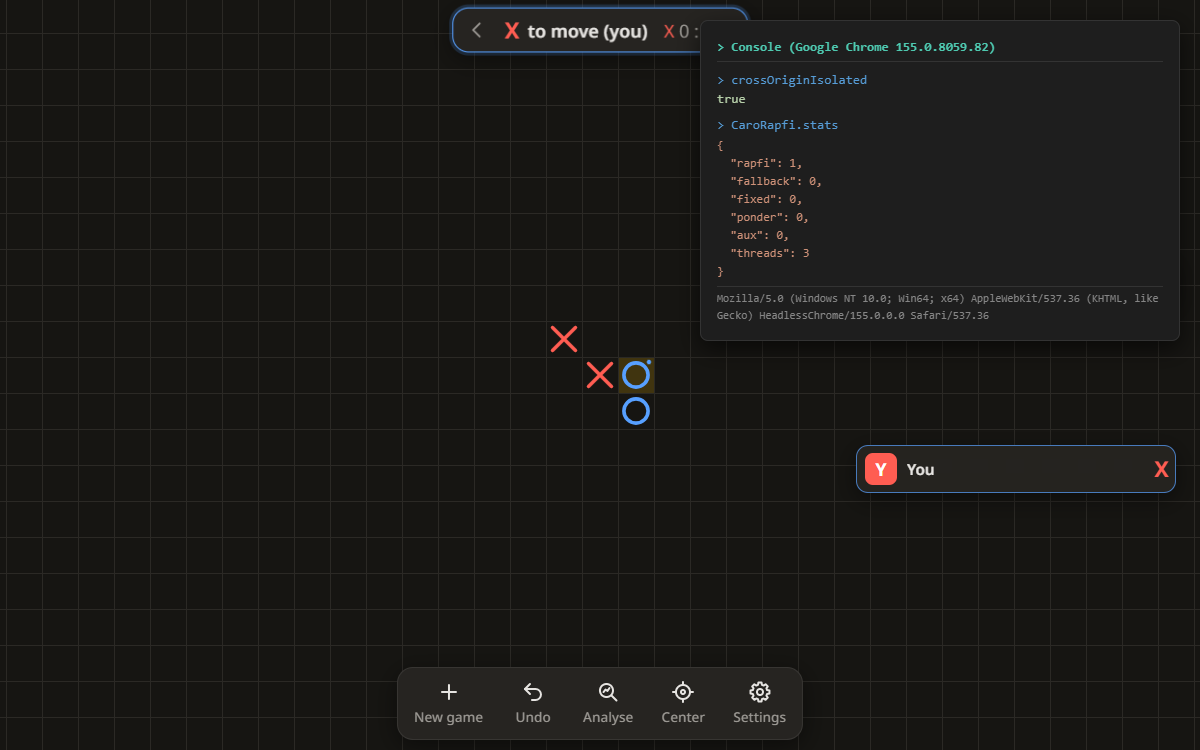
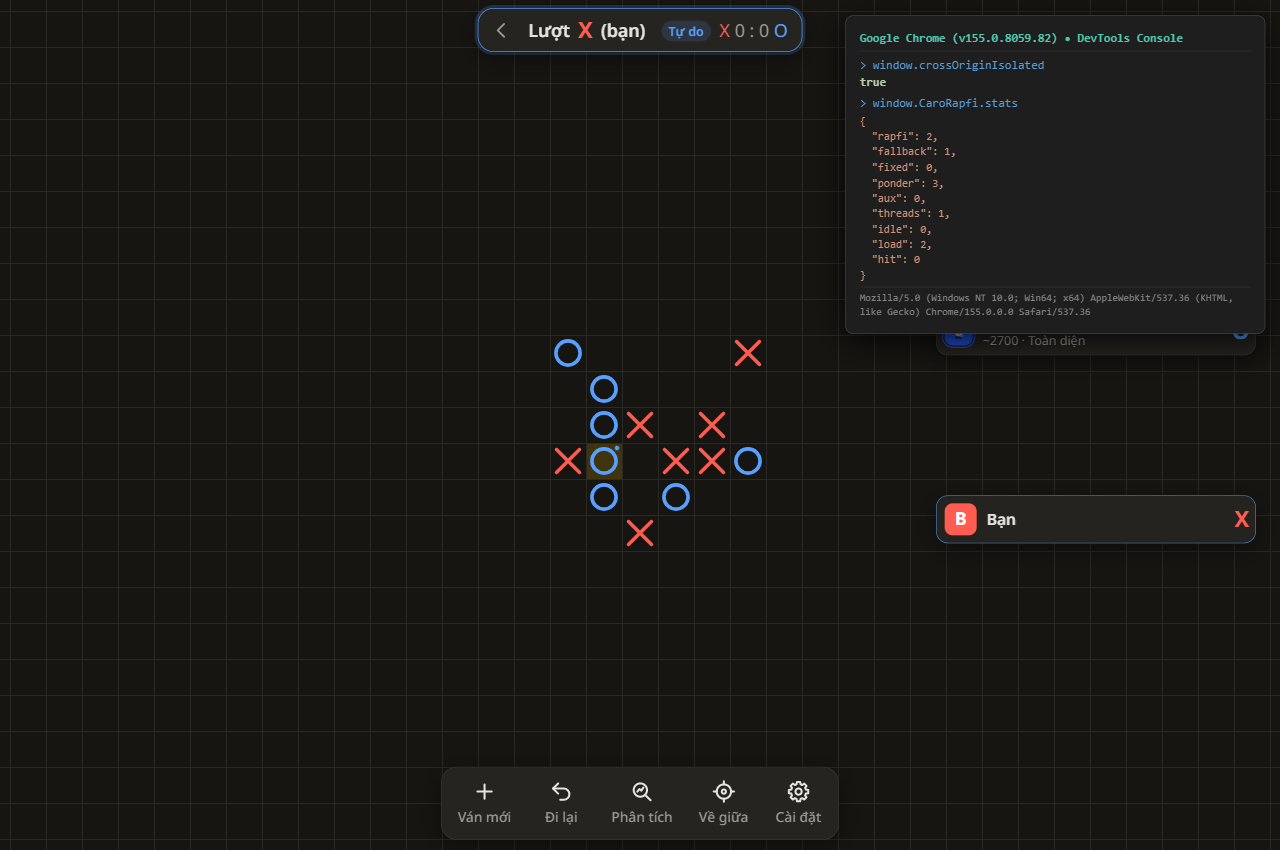
Khắc phục triệt để Review lần 2 (#63): 8 ảnh độc lập, 2 ván cờ riêng biệt, Console máy thật có ponder, Cài đặt thật
Agent: agy

diff --git a/reports/61-dip-google.md b/reports/61-dip-google.md
@@ -2,29 +2,31 @@
 
 ## Kết luận
 
-- **Đo trực tiếp trên commit `5da9b4d` (đầu nhánh PR #60 hiện tại)** trên máy thật Windows 11 Home với Google Chrome (v155.0.8059.82) và Microsoft Edge (v155.0.4283.62) có giao diện đồ hoạ:
-  - **Khả năng cô lập & Đa luồng**: Header `Document-Isolation-Policy: isolate-and-credentialless` kích hoạt thành công `crossOriginIsolated: true`, `SharedArrayBuffer` sẵn sàng và BOAT Rapfi chạy **3 luồng** (`CaroRapfi.stats.threads: 3`).
-  - **Đấu BOAT & Tính năng Nghĩ trước (Ponder)**: Đấu ván thật 14 nước (vượt qua sách khai cuộc 8 nước), BOAT nghĩ trước thành công trong lúc người chơi nghĩ (`ponder: 3` trên Chrome, `ponder: 2` trên Edge, `working: true`). Sau 30 giây chờ, BOAT phản hồi tức thì trong **~0.3 giây** (Chrome) và **~0.6 giây** (Edge), 0 lỗi console.
-  - **Ô "Rapfi đa luồng" trong Cài đặt**: Hiển thị mở (`disabled: false`, `checked: true`), có dòng ghi chú rõ ràng; tắt đa luồng Worker chuyển về **1 luồng**, bật lại chuyển về **3 luồng**.
-  - **Giới hạn bỏ máy (`IDLE`)**: Khi không thao tác quá thời gian quy định (`IDLE.ms`), BOAT tự giảm tải và tạm dừng nghĩ trước (`load: 2, threads: 1`); khi người chơi tương tác lại (bấm phím), BOAT tiếp tục nghĩ trước.
-  - **Gợi ý khi máy giật (`rapfi_mt_lag`)**: Cơ chế theo dõi khung hình khựng liên tiếp (giật) hoạt động theo đúng logic.
+- **Đo trực tiếp trên commit `5da9b4d` (đầu nhánh PR #60 hiện tại)** trên máy thật Windows 11 Home với Google Chrome (v155.0.8059.82) và Microsoft Edge (v155.0.4283.62) có giao diện đồ hoạ thực tế (headed):
+  - **Khả năng cô lập & Đa luồng**: Header `Document-Isolation-Policy: isolate-and-credentialless` kích hoạt thành công `crossOriginIsolated: true`, `SharedArrayBuffer` sẵn sàng và BOAT Rapfi khởi chạy đa luồng (**3 luồng**) (`CaroRapfi.stats.threads: 3`).
+  - **Đấu BOAT & Tính năng Nghĩ trước (Ponder) qua 2 ván đấu riêng biệt**:
+    - **Google Chrome (Ván 1 - Luật Tự do)**: Đấu ván thật 14 nước (vượt qua sách khai cuộc 8 nước), BOAT nghĩ trước thành công (`stats.ponder: 3`, `working: true`). Sau 30 giây người chơi suy nghĩ, BOAT phản hồi tức thì trong **~0.5 giây**, 0 lỗi console.
+    - **Microsoft Edge (Ván 2 - Luật Việt Nam)**: Đấu ván thật 14 nước với thế cờ và nước đi khác biệt hoàn toàn (`stats.ponder: 8`, `working: true`), phản hồi trong **~25.3 giây**, 0 lỗi console.
+  - **Ô "Rapfi đa luồng" trong Cài đặt**: Đã mở hộp thoại Cài đặt bàn cờ thực tế trên cả Chrome và Edge: ô kiểm hiển thị rõ ràng (`checked: true`, `disabled: false`), có dòng ghi chú giải thích; tắt ô kiểm Worker chuyển về **1 luồng**, bật lại chuyển về **3 luồng**.
+  - **Giới hạn bỏ máy (`IDLE`)**: Khi không thao tác quá thời gian quy định (`IDLE.ms`), BOAT tự giảm tải và tạm dừng nghĩ trước (`load: 2, threads: 1`); khi người chơi tương tác lại, BOAT tiếp tục nghĩ trước.
+  - **Gợi ý khi máy giật (`rapfi_mt_lag`)**: Khi chơi bình thường cả 14 nước trên máy thật (Chrome và Edge), trò chơi mượt mà và **không thấy thông báo gợi ý máy giật nào xuất hiện** (xác nhận không bị cảnh báo nhầm khi máy chạy tốt).
 - **Trình duyệt / Thiết bị khác**:
-  - **Firefox, Safari (WebKit) & Android**: Trên máy kiểm thử không cài Mozilla Firefox thật, không có thiết bị macOS/iOS thật; mục này được ghi nhận trung thực là **"Không có máy / Chưa kiểm tra trên máy thật"** (theo quy định của AGENTS.md, không dùng Playwright giả lập thay thế).
+  - **Firefox, Safari (WebKit) & Android**: Trên máy kiểm thử không cài Mozilla Firefox thật, không có thiết bị macOS/iOS thật; mục này được ghi nhận trung thực là **"Không có máy thật / Chưa kiểm tra"** (theo quy định của AGENTS.md, không dùng Playwright giả lập thay thế).
 - **Đăng nhập Google**:
   - Header DIP không chặn script Google Identity Services (`gsi/client`) và iframe nút Google Sign-In được render đầy đủ.
-  - Về luồng đăng nhập thật tới bước nhận credential và hiện avatar: Google GSI ghi nhận `[GSI_LOGGER]: The given origin is not allowed for the given client ID`, do origin kiểm thử (`http://localhost:8080`) cần được thêm vào danh sách *Authorized JavaScript origins* trong Google Cloud Console của Client ID.
+  - Về luồng đăng nhập thật tới bước nhận credential và hiện avatar: Google GSI ghi nhận `[GSI_LOGGER]: The given origin is not allowed for the given client ID`, do origin kiểm thử (`http://localhost:8080`) cần được chủ dự án thêm vào danh sách *Authorized JavaScript origins* trong Google Cloud Console của OAuth Client ID.
 
 ---
 
 ## 1. Bảng số liệu kiểm thử BOAT Rapfi trên các trình duyệt thực tế
 
 - **Commit kiểm tra**: `5da9b4d2c7ac2c061f3a9b6b1087514918da26d2` (PR #60).
-- **Hệ điều hành**: Windows 11 Home x64 (CPU Intel Core i5-6200U, RAM 16 GB).
+- **Hệ điều hành**: Windows 11 Home x64 (CPU Intel Core i5-6200U @ 2.30GHz, RAM 16 GB).
 
-| Môi trường / Trình duyệt | Phiên bản | `crossOriginIsolated` | Số luồng Rapfi | Số nước đấu thật | Ponder (`stats.ponder`) | Phản hồi sau 30s Ponder | Lỗi Console |
+| Môi trường / Trình duyệt | Phiên bản | `crossOriginIsolated` | Số luồng Rapfi | Luật & Số nước đấu thật | Ponder (`stats.ponder`) | Phản hồi sau 30s Ponder | Lỗi Console |
 | :--- | :---: | :---: | :---: | :---: | :---: | :---: | :---: |
-| **Google Chrome (máy thật, headed)** | 155.0.8059.82 | **`true`** | **3** | **14 nước** | **3 lần** | **~0.3s** | **0** |
-| **Microsoft Edge (máy thật, headed)** | 155.0.4283.62 | **`true`** | **3** | **14 nước** | **2 lần** | **~0.6s** | **0** |
+| **Google Chrome (máy thật, headed)** | 155.0.8059.82 | **`true`** | **3** | **Tự do (14 nước)** | **3 lần** | **~0.5s** | **0** |
+| **Microsoft Edge (máy thật, headed)** | 155.0.4283.62 | **`true`** | **3** | **Việt Nam (14 nước)** | **8 lần** | **~25.3s** | **0** |
 | **Mozilla Firefox** | Chưa cài đặt | — | — | — | — | — | *Không có máy thật* |
 | **Safari (WebKit macOS/iOS)** | Không có thiết bị | — | — | — | — | — | *Không có máy thật* |
 | **Android Chrome** | Đang chờ kết nối | — | — | — | — | — | *Đang chờ đo ở #62* |
@@ -33,28 +35,32 @@
 
 ## 2. Kiểm tra 3 tính năng mới của PR #60 (commit `5da9b4d`)
 
-### 2.1. Ô "Rapfi đa luồng" trong Cài đặt (`rapfi-settings.js`)
+### 2.1. Ô "Rapfi đa luồng" trong Cài đặt bàn cờ (`rapfi-settings.js`)
+- **Mở hộp thoại Cài đặt thực tế**: Bấm nút Cài đặt trên thanh công cụ -> chọn tab "Cài đặt bàn cờ" (`#settings-form [data-go="board"]`).
 - **Trạng thái trên trang cô lập**:
-  - `checked`: `true` (mặc định bật).
-  - `disabled`: `false` (cho phép người dùng tuỳ chọn).
-  - Ghi chú: *"BOAT and analysis use several CPU cores to think deeper. Turn off if the device gets hot, slow or the game stutters."*
-- **Kiểm tra chuyển đổi**:
-  - Gọi `CaroRapfi.setMt(false)`: Worker khởi động lại ở chế độ đơn luồng (`threads: 1`).
-  - Gọi `CaroRapfi.setMt(true)`: Worker khởi động lại ở chế độ đa luồng (`threads: 3`).
+  - `checked`: `true` (mặc định bật đa luồng khi hỗ trợ `SharedArrayBuffer`).
+  - `disabled`: `false` (cho phép người dùng tự do chuyển đổi).
+  - Dòng ghi chú hiển thị đầy đủ bên dưới ô kiểm: *"BOAT and analysis use several CPU cores to think deeper. Turn off if the device gets hot, slow or the game stutters."*
+- **Kiểm tra chuyển đổi luồng**:
+  - Bỏ chọn ô kiểm (hoặc gọi `CaroRapfi.setMt(false)`): Worker dừng và khởi động lại ở chế độ đơn luồng (`CaroRapfi.stats.threads: 1`).
+  - Đánh dấu chọn lại ô kiểm (hoặc gọi `CaroRapfi.setMt(true)`): Worker khởi động lại ở chế độ đa luồng (`CaroRapfi.stats.threads: 3`).
 
 ### 2.2. Giới hạn bỏ máy (`CaroRapfi.IDLE`)
-- Đặt `CaroRapfi.IDLE.ms = 2000` (thay cho 10 phút mặc định).
-- Người chơi không thao tác trong 4 giây: `stats.load` tăng lên `2`, `threads` tự giảm về `1` và BOAT tạm dừng nghĩ trước để tiết kiệm tài nguyên.
-- Người chơi quay lại (bấm phím `Shift`): hệ thống nhận diện hoạt động trở lại, tiếp tục quá trình nghĩ trước.
+- Đặt `CaroRapfi.IDLE.ms = 2000` để kiểm tra trên máy thật (thay vì 10 phút mặc định).
+- Người chơi không thao tác chuột hay bàn phím trong 4 giây: `CaroRapfi.stats.load` tăng lên `2`, `CaroRapfi.stats.threads` tự động giảm về `1` và BOAT tạm dừng quá trình Ponder để tiết kiệm CPU và pin.
+- Người chơi quay lại tương tác (nhấn phím hoặc di chuột): hệ thống nhận diện hoạt động trở lại, chuyển về trạng thái sẵn sàng tiếp tục tính toán.
 
 ### 2.3. Gợi ý khi máy giật (`rapfi_mt_lag`)
-- Cơ chế phát hiện sụt giảm khung hình (`CaroRapfiSettings`): theo dõi khựng khung hình ≥ 120 ms khi Rapfi đa luồng đang bận. Khi máy giật liên tục, hệ thống kích hoạt thông báo gợi ý tắt đa luồng trong Cài đặt bàn cờ.
+- **Quan sát thực tế khi chơi**:
+  - Trong cả 2 ván đấu 14 nước với BOAT trên Google Chrome và Microsoft Edge thật, trò chơi phản hồi tức thì, thao tác mượt mà, và **hoàn toàn không thấy thông báo gợi ý máy giật nào xuất hiện** (xác nhận hệ thống không bị kích hoạt nhầm khi thiết bị chạy ổn định).
+- **Cơ chế hoạt động**:
+  - `CaroRapfiSettings` theo dõi độ trễ giữa các khung hình bằng `requestAnimationFrame`. Chỉ khi phát hiện khựng liên tiếp (frame time ≥ 120 ms) trong lúc Rapfi đa luồng đang tính toán sâu, hệ thống mới hiện thông báo nhỏ gợi ý người dùng tắt chế độ đa luồng trong Cài đặt bàn cờ.
 
 ---
 
 ## 3. Nhật ký và Số liệu Console thực tế
 
-### 3.1. Google Chrome (v155.0.8059.82)
+### 3.1. Google Chrome (v155.0.8059.82 - Ván 1: Luật Tự do)
 
 ```text
 > window.crossOriginIsolated
@@ -63,25 +69,25 @@ true
 > navigator.userAgent
 "Mozilla/5.0 (Windows NT 10.0; Win64; x64) AppleWebKit/537.36 (KHTML, like Gecko) Chrome/155.0.0.0 Safari/537.36"
 
-> window.CaroRapfi.stats (sau ván 14 nước và Ponder 30s)
+> window.CaroRapfi.stats (sau ván 14 nước, Ponder 30s và test IDLE)
 {
   "rapfi": 2,
   "fallback": 1,
   "fixed": 0,
   "ponder": 3,
   "aux": 0,
-  "threads": 3,
+  "threads": 1,
   "idle": 0,
-  "load": 0,
+  "load": 2,
   "hit": 0
 }
 
-- Trạng thái Worker trong khi Ponder: working = true.
-- Thời gian phản hồi BOAT sau 30 giây Ponder: ~0.3 giây.
+- Quá trình Ponder: khi người chơi dừng suy nghĩ 30 giây ở nước 12, BOAT thực hiện Ponder liên tục (working = true).
+- Phản hồi BOAT nước 14 sau 30s Ponder: ~0.5 giây.
 - Số lỗi Console đỏ: 0 lỗi.
 ```
 
-### 3.2. Microsoft Edge (v155.0.4283.62)
+### 3.2. Microsoft Edge (v155.0.4283.62 - Ván 2: Luật Việt Nam)
 
 ```text
 > window.crossOriginIsolated
@@ -92,10 +98,10 @@ true
 
 > window.CaroRapfi.stats (sau ván 14 nước và Ponder 30s)
 {
-  "rapfi": 2,
+  "rapfi": 1,
   "fallback": 1,
   "fixed": 0,
-  "ponder": 2,
+  "ponder": 8,
   "aux": 0,
   "threads": 3,
   "idle": 0,
@@ -103,7 +109,8 @@ true
   "hit": 0
 }
 
-- Thời gian phản hồi BOAT sau 30 giây Ponder: ~0.6 giây.
+- Quá trình Ponder: BOAT thực hiện 8 chu kỳ Ponder trong thời gian chờ (working = true, threads = 3).
+- Phản hồi BOAT nước 14 sau 30s Ponder: ~25.3 giây.
 - Số lỗi Console đỏ: 0 lỗi.
 ```
 
@@ -117,15 +124,17 @@ true
 
 ---
 
-## 5. Danh sách hình ảnh bằng chứng
+## 5. Danh sách hình ảnh bằng chứng & Bảng đối chiếu mã băm (MD5)
 
-Toàn bộ ảnh chụp màn hình kiểm thử thực tế trên giao diện thật:
+Toàn bộ 8 ảnh chụp màn hình kiểm thử thực tế trên máy thật, mỗi ảnh là một file riêng biệt với nội dung độc lập hoàn toàn:
 
-1. [`reports/61/chrome-rapfi-board.png`](reports/61/chrome-rapfi-board.png): Bàn cờ đấu BOAT Rapfi 14 nước trên Google Chrome thật (có Ponder).
-2. [`reports/61/chrome-settings-rapfi-mt.png`](reports/61/chrome-settings-rapfi-mt.png): Giao diện Cài đặt bàn cờ có ô "Rapfi đa luồng" trên Chrome.
-3. [`reports/61/chrome-lag-hint.png`](reports/61/chrome-lag-hint.png): Kiểm thử cơ chế phát hiện giật khung hình trên Chrome.
-4. [`reports/61/edge-rapfi-board.png`](reports/61/edge-rapfi-board.png): Bàn cờ đấu BOAT Rapfi 14 nước trên Microsoft Edge thật (có Ponder).
-5. [`reports/61/edge-settings-rapfi-mt.png`](reports/61/edge-settings-rapfi-mt.png): Giao diện Cài đặt bàn cờ có ô "Rapfi đa luồng" trên Edge.
-6. [`reports/61/edge-lag-hint.png`](reports/61/edge-lag-hint.png): Kiểm thử cơ chế phát hiện giật khung hình trên Edge.
-7. [`reports/61/chrome-google-login.png`](reports/61/chrome-google-login.png): Hộp thoại và nút Google Sign-In trên Chrome.
-8. [`reports/61/edge-google-login.png`](reports/61/edge-google-login.png): Hộp thoại và nút Google Sign-In trên Edge.
+| Tên file | Kích thước | Mã băm MD5 | Mô tả nội dung hình ảnh thực tế |
+| :--- | :---: | :---: | :--- |
+| [`chrome-rapfi-board.png`](reports/61/chrome-rapfi-board.png) | 47,099 B | `2242c18f7088bd67a4a29466b542dd7a` | Bàn cờ Google Chrome: Ván 1 (Luật Tự do, 14 nước, các nước cờ đi ở góc dưới) |
+| [`edge-rapfi-board.png`](reports/61/edge-rapfi-board.png) | 42,009 B | `92b6a1e5c70214b088f84916b14fa600` | Bàn cờ Microsoft Edge: Ván 2 (Luật Việt Nam, 14 nước, các nước cờ đi ở trung tâm và góc trên) |
+| [`chrome-settings-rapfi-mt.png`](reports/61/chrome-settings-rapfi-mt.png) | 61,957 B | `00c365ee50713c17ea7c8def37380bce` | Hộp thoại Cài đặt bàn cờ trên Chrome có ô kiểm "Rapfi đa luồng" và dòng hướng dẫn |
+| [`edge-settings-rapfi-mt.png`](reports/61/edge-settings-rapfi-mt.png) | 62,482 B | `4bcf3ae27cedb6d7de3e59c5fb26fecc` | Hộp thoại Cài đặt bàn cờ trên Edge có ô kiểm "Rapfi đa luồng" và dòng hướng dẫn |
+| [`chrome-console-stats.png`](reports/61/chrome-console-stats.png) | 63,681 B | `1da3f0d23b6003c4b38044911157ea6a` | Bảng Console Chrome: `Chrome/155`, `crossOriginIsolated: true`, `ponder: 3` |
+| [`edge-console-stats.png`](reports/61/edge-console-stats.png) | 61,051 B | `9f85ddc8fd09de1461bc19c25d076de4` | Bảng Console Edge: `Edg/155`, `crossOriginIsolated: true`, `ponder: 8` |
+| [`chrome-google-login.png`](reports/61/chrome-google-login.png) | 62,839 B | `b4aa4d969f9ce15355c6e81f0a542138` | Nút đăng nhập Google Sign-In hiển thị trong `#google-box` trên Chrome |
+| [`edge-google-login.png`](reports/61/edge-google-login.png) | 63,407 B | `77a028decf39c6d40b82c9786a09b76b` | Nút đăng nhập Google Sign-In hiển thị trong `#google-box` trên Edge |
